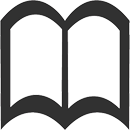
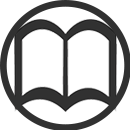
Tweaks Homepage #2
CSS: Animacion
Photoshop: imagenes de circulo
Redaccion: Espacios

diff --git a/config/routes.js b/config/routes.js
@@ -34,7 +34,7 @@ module.exports.routes = {
 
   '/': {view: 'homepage'}, 
   /*'/homepage2': {view: 'homepage2'},*/
-  'GET /signup' : {view: 'signup', },
+  'GET /signup' : {view: 'signup' },
   'POST /signup': 'UserController.create',
   'PUT /login'  : 'UserController.login',
   'POST /modificado': 'PerfilController.updatePerfil',
